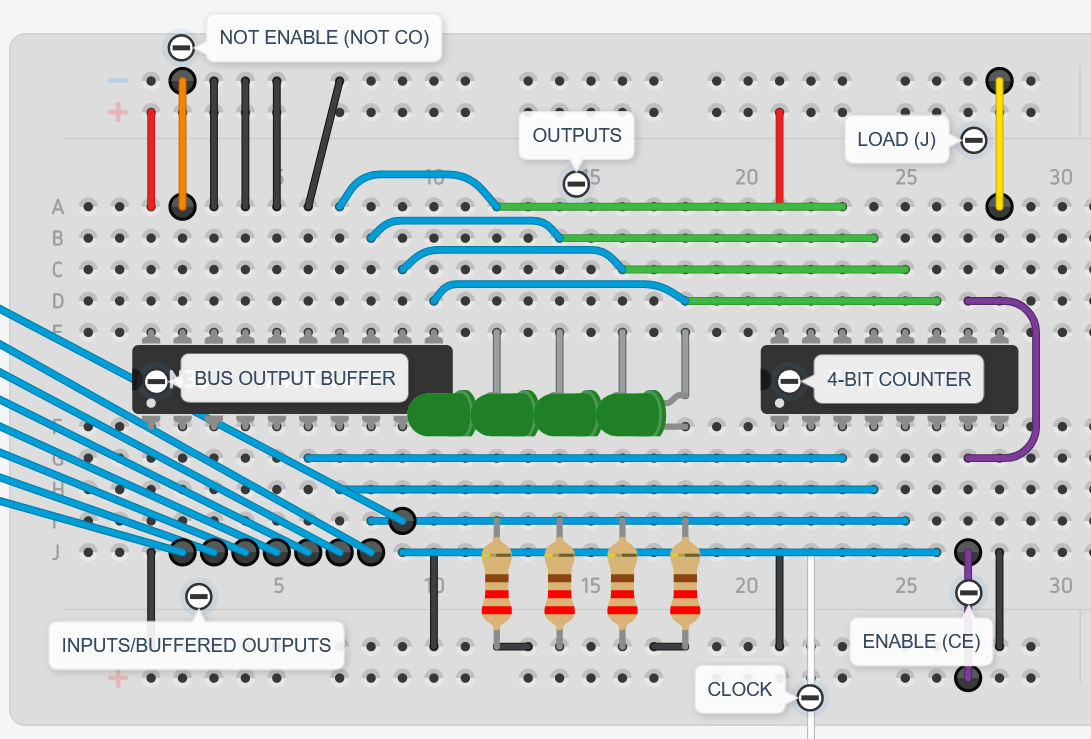
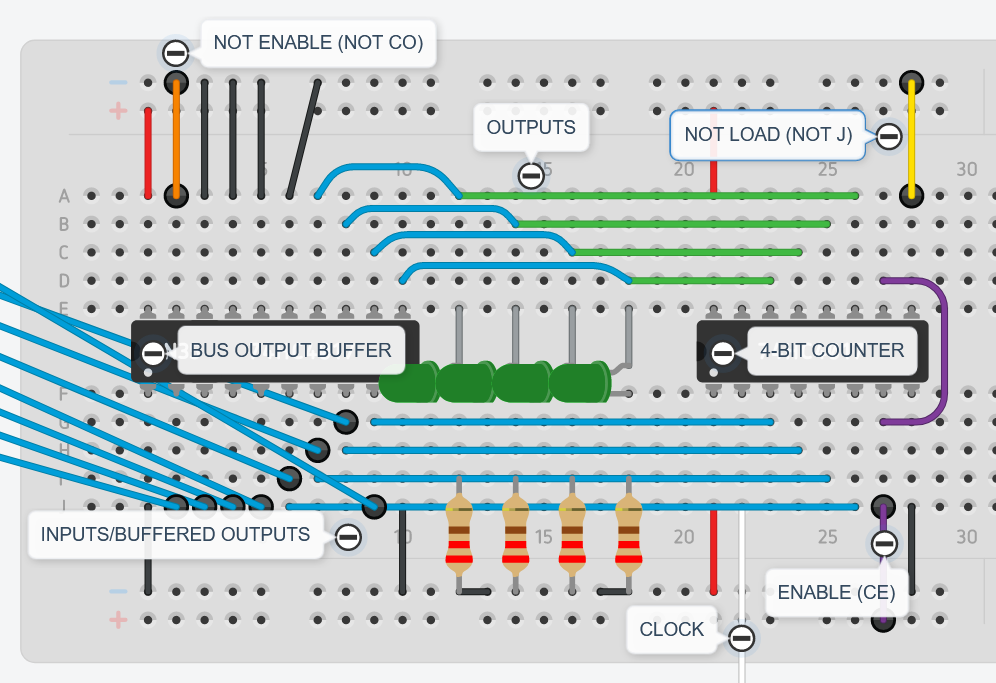
hungry

diff --git a/_posts/2021-06-26-8-bit-computer.md b/_posts/2021-06-26-8-bit-computer.md
@@ -11,9 +11,9 @@ tags: project
 # Table of Contents
 - [Table of Contents](#table-of-contents)
   - [Introduction](#introduction)
-    - [TODO: Chips compatibility, LEDS and other tips/disclaimers](#todo-chips-compatibility-leds-and-other-tipsdisclaimers)
-    - [TODO: Add appendix with datasheet of all the chips](#todo-add-appendix-with-datasheet-of-all-the-chips)
-    - [TODO: Turing completeness](#todo-turing-completeness)
+    - [TODO Improve this section: Chips compatibility, LEDS and other tips/disclaimers](#todo-improve-this-section-chips-compatibility-leds-and-other-tipsdisclaimers)
+    - [TODO: Add appendix at the end with datasheet of all the chips (just links to all pdf datasheets)](#todo-add-appendix-at-the-end-with-datasheet-of-all-the-chips-just-links-to-all-pdf-datasheets)
+    - [TODO: review this after completing the computer. Computer features and Turing completeness](#todo-review-this-after-completing-the-computer-computer-features-and-turing-completeness)
     - [Power supply (TODO check power supply tips)](#power-supply-todo-check-power-supply-tips)
     - [Breadboards](#breadboards)
       - [Sample closed circuit](#sample-closed-circuit)
@@ -95,6 +95,10 @@ tags: project
       - [Tinkercad](#tinkercad-9)
       - [Schematic](#schematic-7)
     - [Testing the program counter](#testing-the-program-counter)
+  - [Output register](#output-register)
+  - [Control unit](#control-unit)
+    - [Control signals](#control-signals-1)
+    - [Microcode EEPROM (Instruction decoder)](#microcode-eeprom-instruction-decoder)
 
 ## Introduction
 Ben Eater is an online educator on computer-related topics from which I'm following his 8-bit computer project. [https://eater.net/8bit](https://eater.net/8bit). The computer is composed of different modules, which are built on breadboards. The modules are the clock module, registers and ALU (arithmetic and logic unit) module, RAM (random access memory) and program counter module, and output and control logic module.
@@ -102,11 +106,37 @@ Ben Eater is an online educator on computer-related topics from which I'm follow
 * To refresh circuit analysis basics check [this post]({{ site.url }}/hardware/2021/06/26/8-EE-cheatsheet.html).
 * You can also check my [CSE1400 Computer Organization notes]({{ site.url }}/downloads/CSE1400_(history-logic_circuits-data_representation-isa-assembly-cpu-io-memory-pipelining).pdf)
 
-### TODO: Chips compatibility, LEDS and other tips/disclaimers
+### TODO Improve this section: Chips compatibility, LEDS and other tips/disclaimers
+* Not all chips families are compatible, apparently HC and LS are.
+* Ben Eater videos often don't have resistors in series with the LEDs because of the LS chip family have limited current outputs.
+  * In practice LEDs did sink too much current and not adding resistors caused weird behavour for input pins relying on the current from those outputs.
+  * Ben's schematic does include resistors.
+* Often the schematic will ignore the \\(V_{cc}\\) and ground pins of the chips and you should implicitly take care of those by looking at the datasheet of the chip
 
-### TODO: Add appendix with datasheet of all the chips
+### TODO: Add appendix at the end with datasheet of all the chips (just links to all pdf datasheets)
 
-### TODO: Turing completeness
+### TODO: review this after completing the computer. Computer features and Turing completeness
+* This 8-bit computer has:
+  * clock (synchronises control unit instructions by executing them into separate clock pulses)
+  * RAM (main memory that stores the programs we can run)
+  * CPU (central processing unit) which is just the electronic circuitry that regards:
+    * Registers:
+      * Memory addres register (specifies the RAM data that the CPU can directly use)
+      * Program counter (specifies next program line (in terms of memory addresses))
+      * Operand reigsters (named here as A and B)
+      * Output register
+      * Flags register
+    * ALU (arithmetic and logic unit)
+    * Control unit
+      * Reads the instructions stored in the RAM and decodes them with high/low voltages for each component interface input (control signals)
+        * opcodes are text-based aliases for the inputs of the decoded outputs (and the outputs should essentially execute (often in several clock cycles) what the opcode is supposed to define i.e. Move A to to output register" = "MOV A O" = 0010 (opcode for MOV) 00 (operand for the A register) 11 (operando for the output register)= 00100011 decoder input which should output a series of high/low signal for all control, as many times as needed, until getting the desired outcome.
+          * Both the opcode name and the binary number of the opcode are arbitrary choices that we made.
+            * The alphanumeric representation of opcodes (alpha) and operands (data) is what we call "assembly code"
+            * The decoded output for each input are essentially "microcode" lines, where each line has a high/low configuration for each control signal
+    * The CPU does not have input/output in terms of "interrupts" (where at a given frequency the CPU halts, listens and acknoweldges i/o devices, executes their requests, and then continues).
+      * It only has the LED display that updates it's output as defined by the program.
+      * All inputs of the user shall be written in the program itself before run time
+* The computer is "turing complete" because it allows the execution of a program (whose inputs are already defined before runtime) and the computer supports addition, subtraction and conditional jumps, form which any computable problem, given infinite memory, could be computed.      
 
 ### Power supply (TODO check power supply tips)
 We will be using a 5V (volt) power source, which Ben has crafted by cutting off the wires of a cellphone charger.
@@ -995,12 +1025,12 @@ Open [tinkercad](https://www.tinkercad.com/things/aEBNrUN51YQ-ram-p3)
 * \\(\overline{BI}\\) = Not register B in = "Not load" signal of [register]({{ page.url }}#tinkercad-4) B pin to store the inputs (from the BUS, who is always listening)
 * \\(\overline{EO}\\) = Not ALU's \\(\Sigma\\) (operation outcome) out = "Not enable" signal of [ALU]({{ page.url }}#tinkercad-5)'s tri-state buffer that controls outputting to the BUS.
 * \\(SU\\) = Substract = [ALU]({{ page.url }}#tinkercad-5)'s active high signal to make the operation be A-B instead of A+B when it's low
+* \\(CE\\) = Count Enable = Enable pins of the 4-bit counter = Allow the counter to increment by 1 at each clock pulse
+* \\(\overline{CO}\\) = Counter out = active low enable signal of the output tri-state buffer of the counter that determines whether the outputs are sent to the BUS or are disconnected.
+* \\(\overline{J}\\) = jump = active low load signal of the 4-bit counter to store the contents from the inputs (BUS)
 * TODO:
   * CY
   * OI
-  * CO
-  * J
-  * CE
   * JC
   * Perhaps make HLT active high like Ben's
 
@@ -1118,14 +1148,16 @@ Open [tinkercad](https://www.tinkercad.com/things/aEBNrUN51YQ-ram-p3)
    * This time we will use B->A direction because of the location of the output pins of the counter chip (above)
 5. Use a jumperwire signal for pin 19 of the tri-state buffer (\\(\overline{E}\\)) with the label "\\(\overline{CO}\\)"
 6. Connect MSB of the output buffer (B1, B2, B3, B4) to ground 
-7. Connect the output bits of the 4-bit counter (\\(Q_A, Q_B, Q_C, Q_D\\)) to the 4 least significant B pins of the tri-state buffer (B5, B6, B7, B8)
+7. Connect the output bits of the 4-bit counter (little endian) to the 4 least significant B pins of the tri-state buffer (big endian)
+   * \\((Q_A, B8), (Q_B, B7), (Q_C, B6), (Q_D, B5)\\)
    * Connect the outputs to green LEDs with 220 ohms resistors
-8. Pin 9 (LOAD) is for the "JUMP" jumperwire signal (add lable "J"), which basically stores the inputs into the counter.
+8. Pin 9 (LOAD) is for the "JUMP" jumperwire signal, which the circle of the diagram indicates that is inverted (so add lable "\\(\overline{J}\\)"), which basically stores the inputs into the counter.
 9.  \\(CE\\) jumperwire signal is acheived by connecting pins 7 and 10 and from there the jumperwire (active high).
 10. Connect the clock signal (the normal one, not the one for the RC circuit) to pin 2
-11. Connect the 4 least significant A pins of the tri-state buffer (A5, A6, A7, A8) to the inputs of 4-bit counter  (A, B, C, D)
+11. Connect the 4 least significant A pins of the tri-state buffer (big endian) to the inputs of 4-bit counter  (little endian)
+    * \\((A, A8), (B, A7), (C, A6), (D, A5)\\)
 12. Connect all A pins of the tri-state buffer to the BUS.
-13. Set the clear pin of the counter to ground
+13. Set the clear pin of the counter to high as that one is active low
 
 #### Tinkercad
 ![404]({{ site.url }}/images/8bit/counter/tinker.PNG)
@@ -1137,3 +1169,11 @@ Open [tinkercad](https://www.tinkercad.com/things/aEBNrUN51YQ-ram-p3)
 ### Testing the program counter
 * Reading test: do the i++ ALU test
 * Writting test: Load contents to another register/RAM in combination with CE (counter enable) high
+
+## Output register
+* The output reigser is similar to any other register, but we want it to have a (7-segment) decimal display.
+
+## Control unit
+### Control signals
+### Microcode EEPROM (Instruction decoder)
+* 
